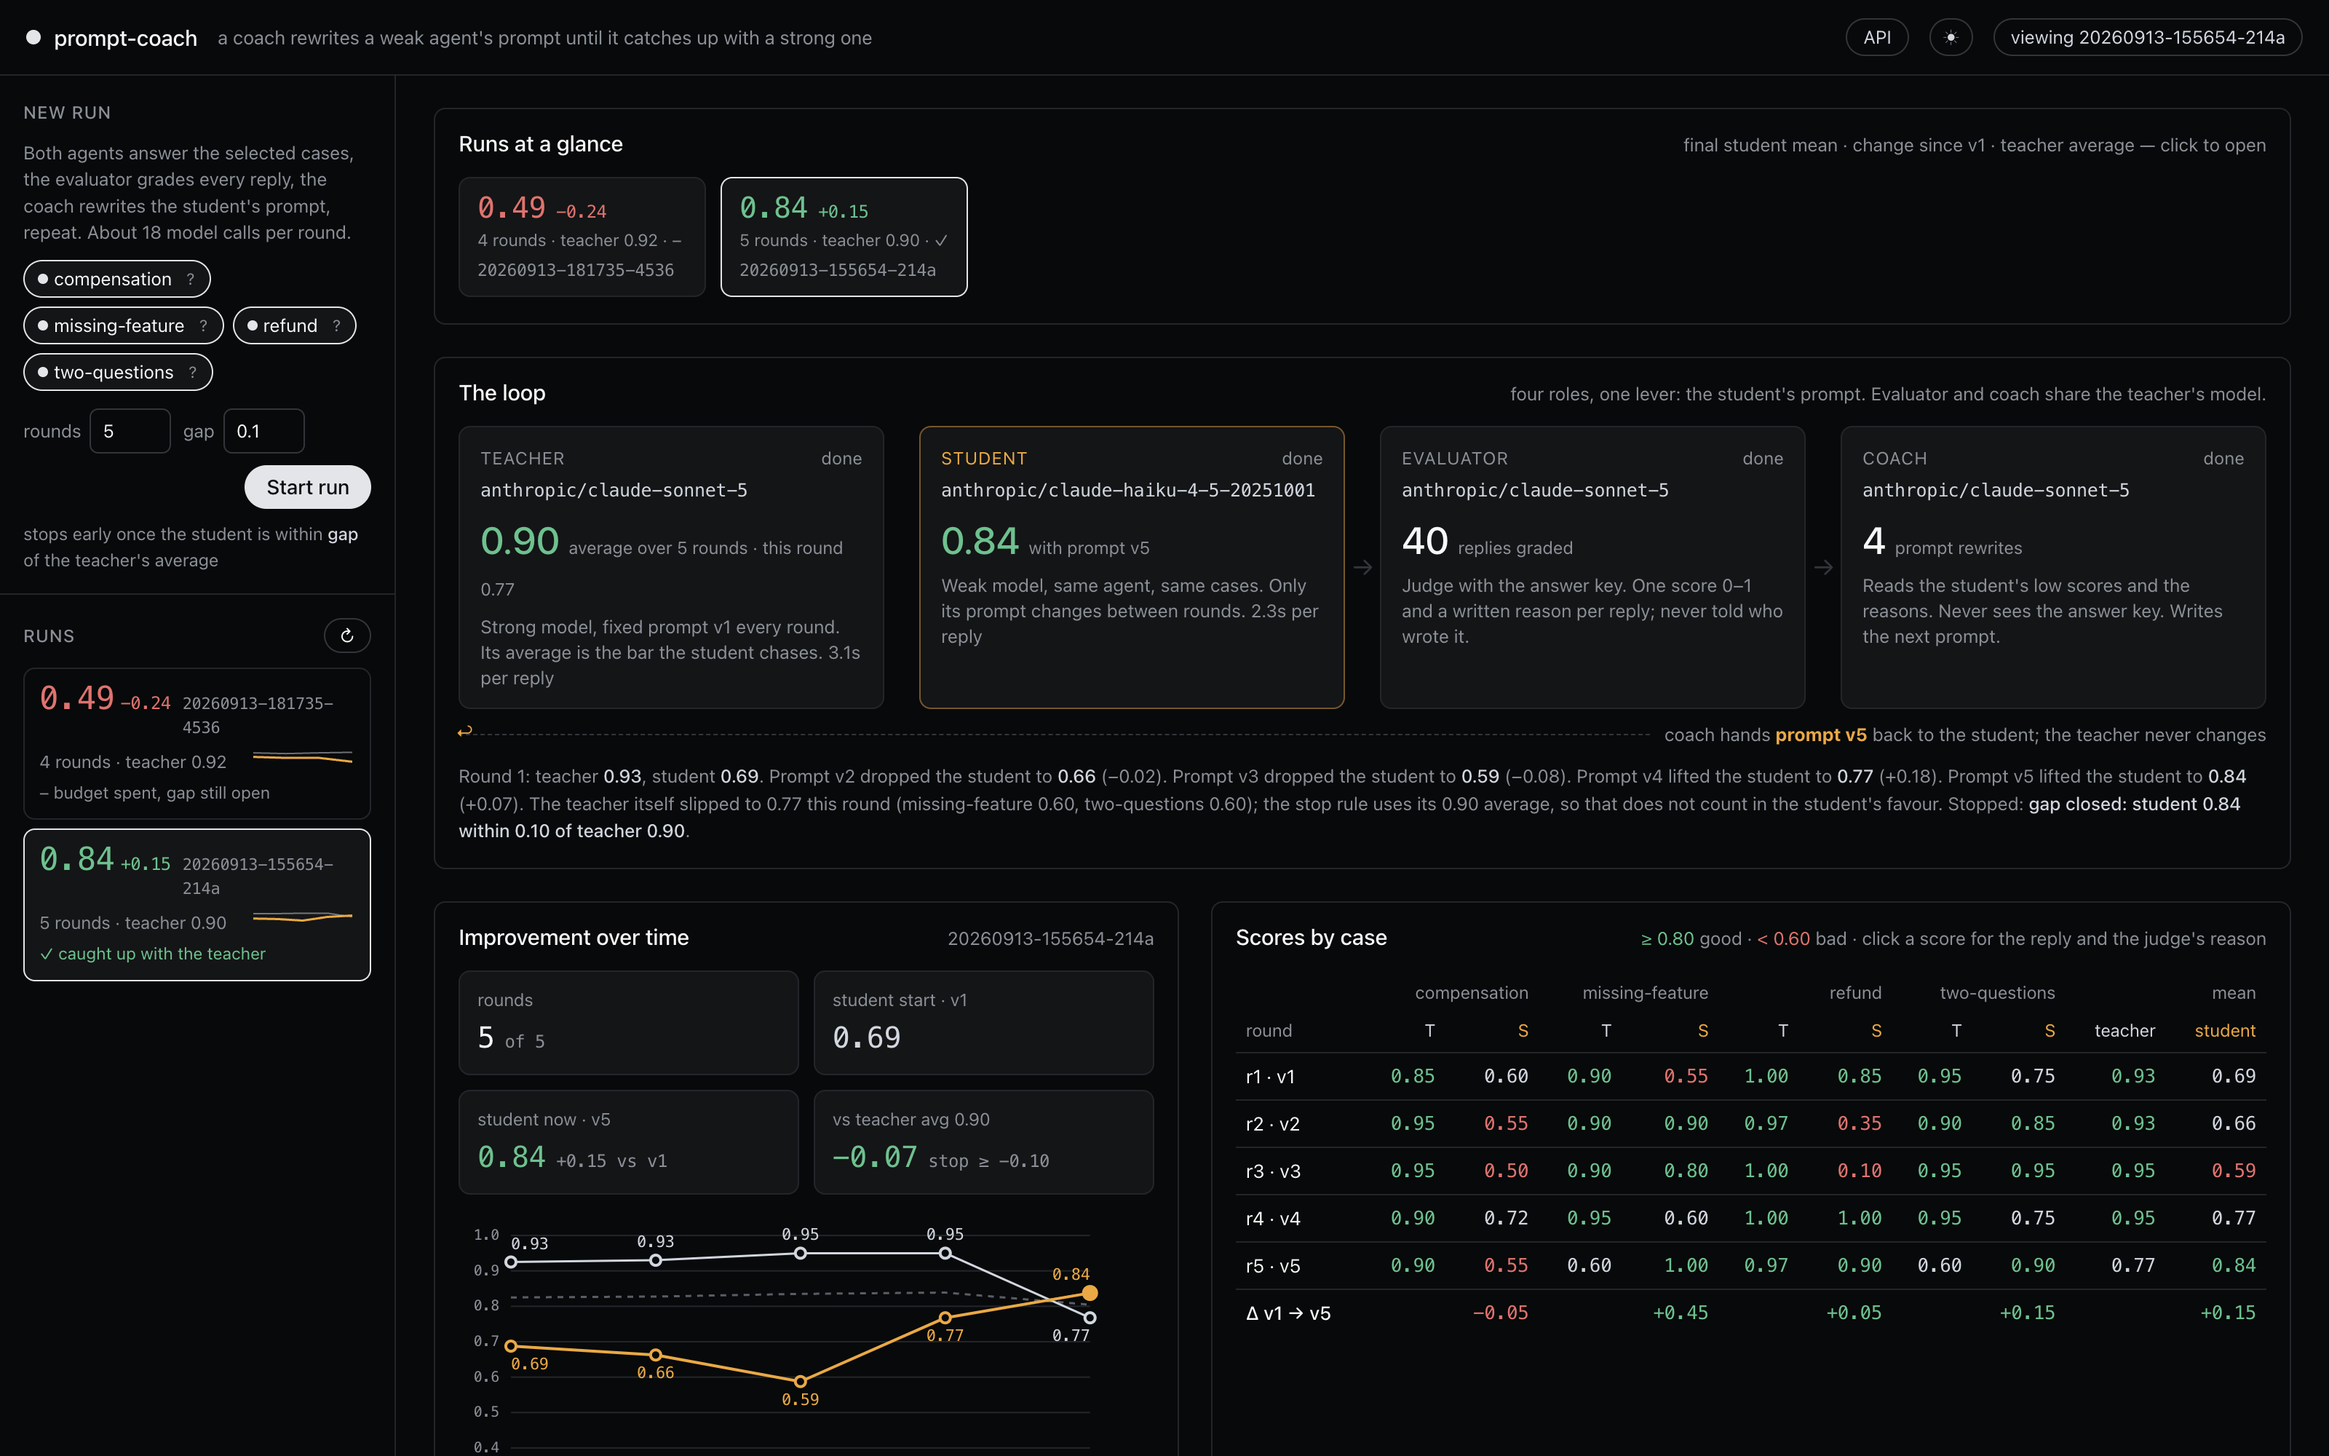
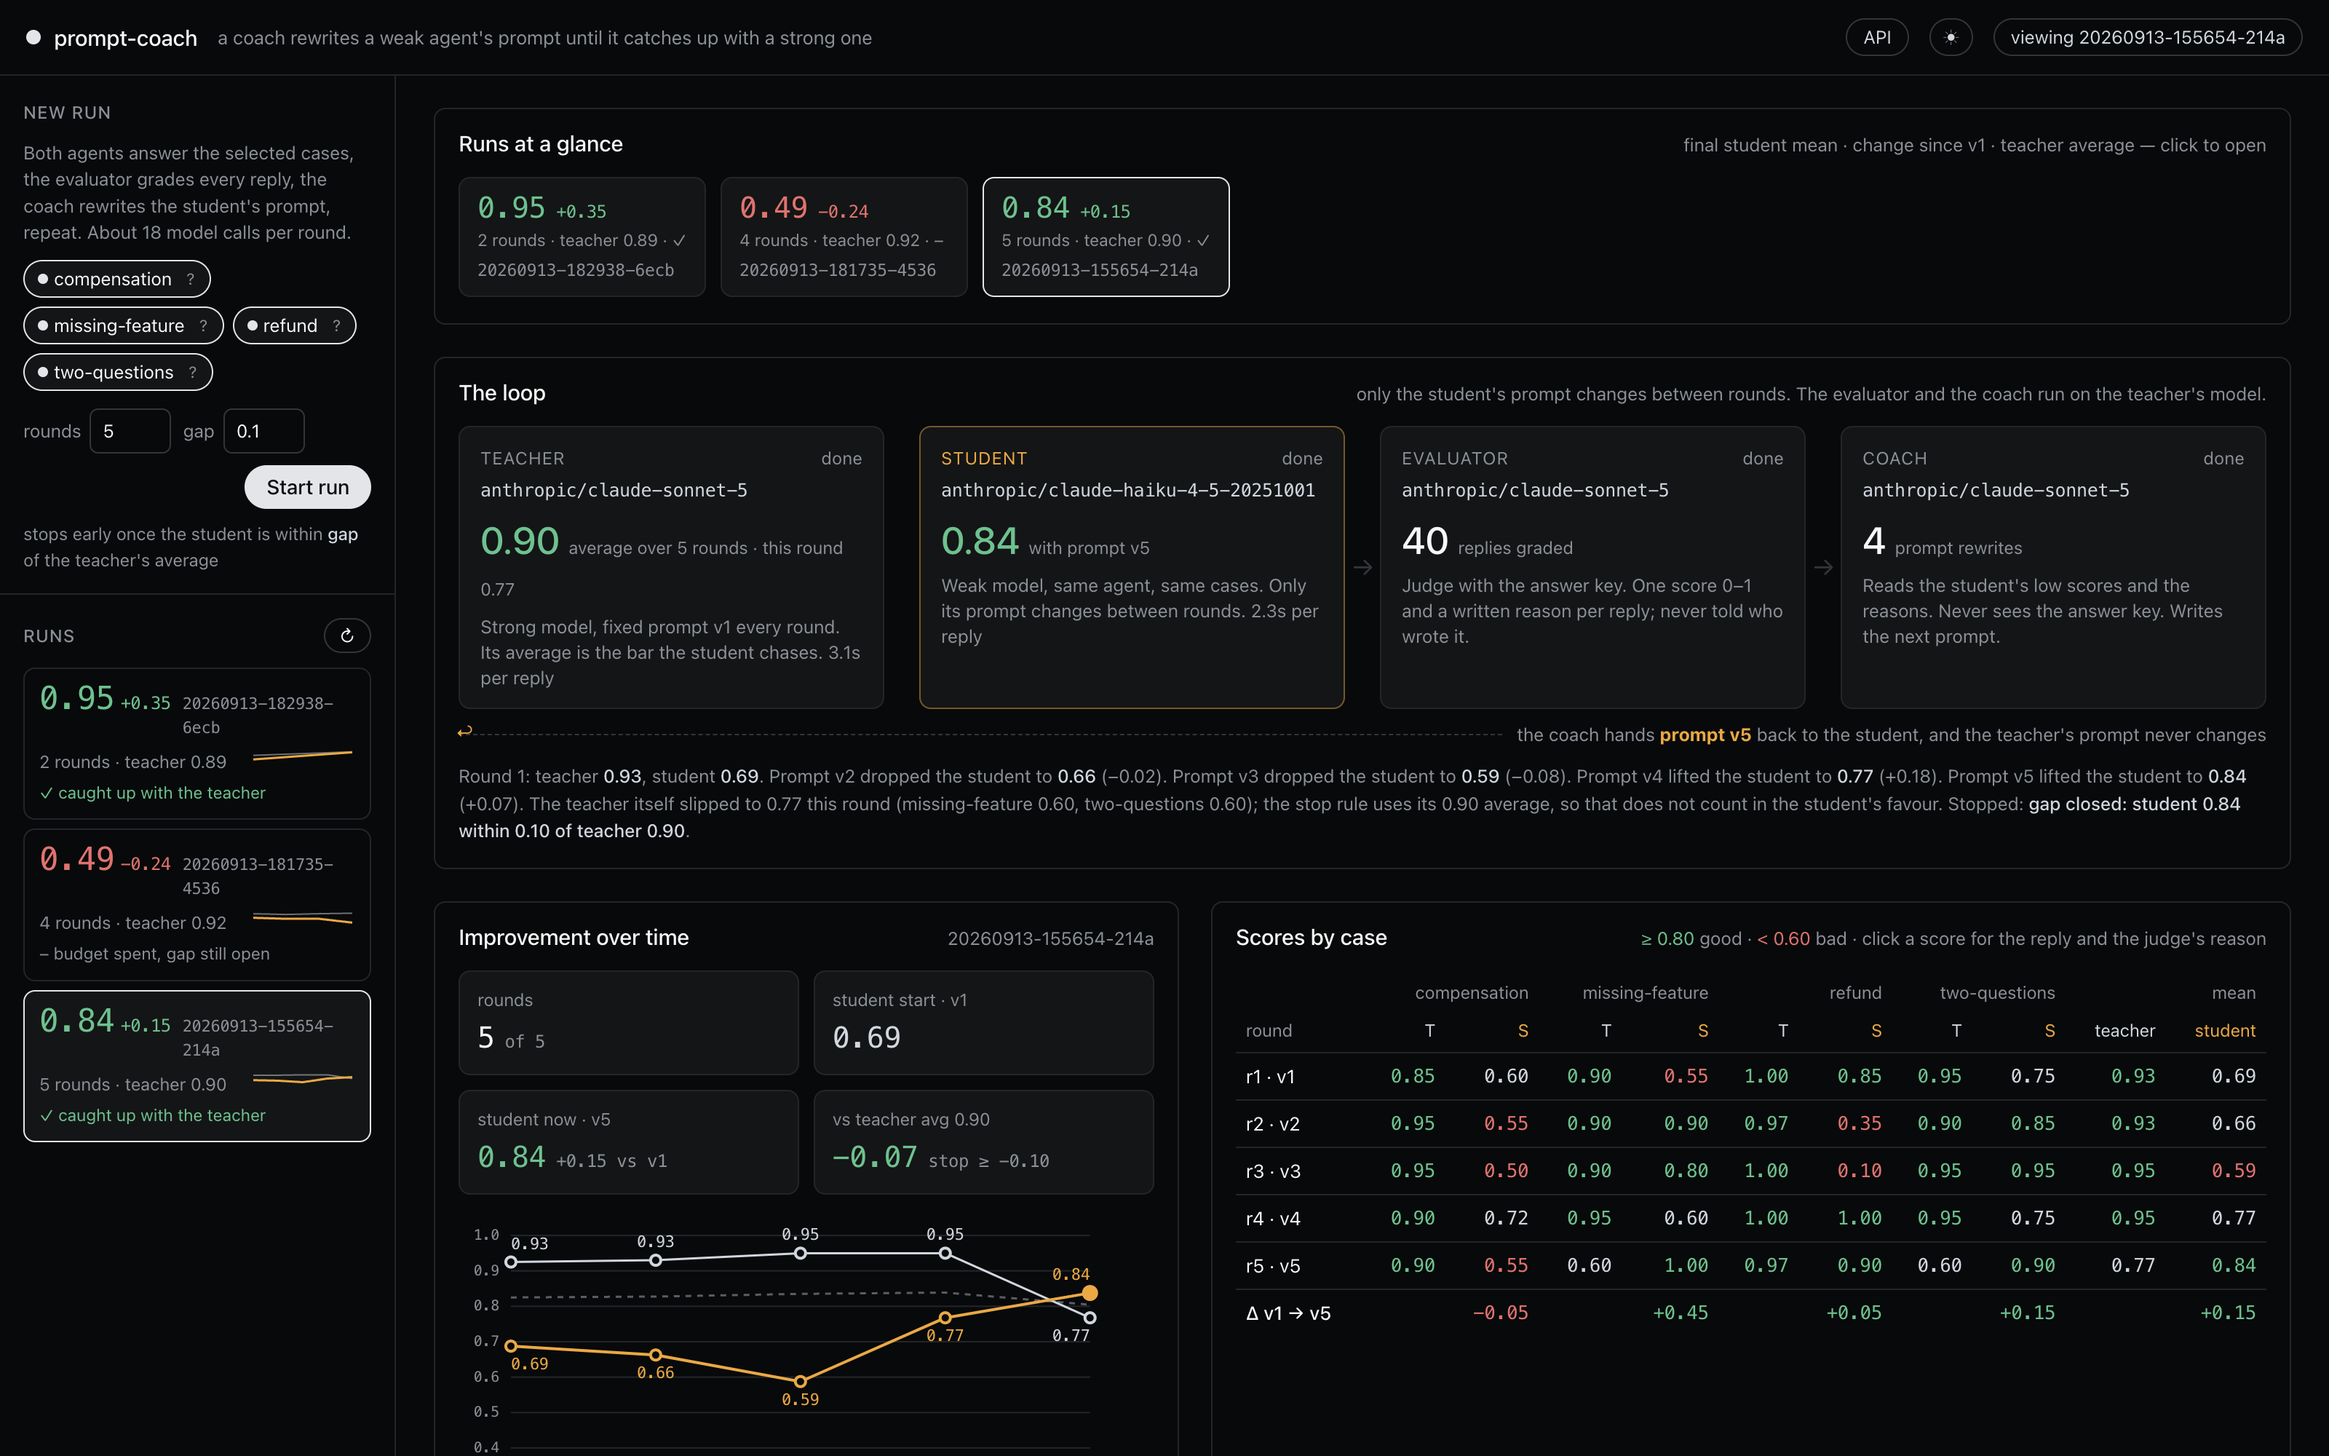
README: corrected run chronology from the run file, stop rule in the diagram, plainer wording; UI subtitle; hero screenshot recaptured

diff --git a/src/prompt_coach/web/static/index.html b/src/prompt_coach/web/static/index.html
@@ -260,7 +260,7 @@
       <div class="pb"><div class="runsrow" id="runsRow"></div></div>
     </section>
     <section class="panel">
-      <div class="ph"><h2>The loop</h2><span class="sub" id="loopSub">four roles, one lever: the student's prompt. Evaluator and coach share the teacher's model.</span></div>
+      <div class="ph"><h2>The loop</h2><span class="sub" id="loopSub">only the student's prompt changes between rounds. The evaluator and the coach run on the teacher's model.</span></div>
       <div class="pb">
         <div class="loop" id="loop"></div>
         <div class="storyline" id="story"></div>
@@ -584,7 +584,7 @@ function renderLoop(run) {
       <div class="model mono">${esc(m.coach || '')}</div>
       <div class="big">${Math.max(0, vs.length - 1)}<small>prompt rewrite${vs.length === 2 ? '' : 's'}</small></div>
       <div class="what">Reads the student's low scores and the reasons. Never sees the answer key. Writes the next prompt.</div></div>
-    <div class="loopback" style="grid-column:1/-1"><span class="line"></span><span>coach hands <b class="s">prompt v${vs.length ? vs[vs.length - 1].version : 2}</b> back to the student; the teacher never changes</span></div>`;
+    <div class="loopback" style="grid-column:1/-1"><span class="line"></span><span>the coach hands <b class="s">prompt v${vs.length ? vs[vs.length - 1].version : 2}</b> back to the student, and the teacher's prompt never changes</span></div>`;
   $('story').innerHTML = storyline(run, rounds, cur);
 }
 function storyline(run, rounds, cur) {

diff --git a/README.md b/README.md
@@ -2,8 +2,8 @@
 
 This is a small, runnable example of continual learning for an LLM agent. A cheap model learns to do
 a support job as well as an expensive one, and the only thing that changes between rounds is the
-cheap model's prompt. You can read the whole thing in an afternoon and run it for the price of a
-coffee.
+cheap model's prompt. The code fits in an afternoon of reading and a run costs a few dollars in
+model calls.
 
 ## What this is
 
@@ -20,17 +20,13 @@ without paying for a single model call.
 
 When people say an agent "learns in production", they usually do not mean fine-tuning. They mean a
 loop: the agent does its job, something grades the result, something changes the agent's
-instructions, and the agent runs again. That loop is described in every talk about AI agents, but
-it is hard to watch one end to end, because in a real system it is spread across thousands of runs
-and several teams.
+instructions, and the agent runs again. In a real system that loop is spread across thousands of
+runs and several teams, so nobody gets to watch one prompt change from beginning to end.
 
-This repo is that loop at the smallest size where the effect is still visible. Four tickets, two
-models, one prompt that changes. You see the prompt go from v1 to v2 to v3, and for every score you
-can read the reply and the reason it got that score, so when the student improves you know why, and
-when it gets worse you know why too.
-
-The hard parts are in here as well. The coach can make the student worse, the evaluator is noisy,
-and the teacher has bad rounds of its own. The run further down shows all three.
+Here the loop is small enough to watch. For every score you can read the reply and the reason it
+got that score, so when the student improves you know which edit did it, and when it gets worse you
+know that too. The hard parts are kept in: the coach can make the student worse, the evaluator is
+noisy, and the teacher has weak rounds of its own.
 
 ## How it works
 
@@ -41,21 +37,20 @@ flowchart LR
     P --> S[student<br/>cheap model]
     T[teacher<br/>expensive model · prompt v1, fixed] --> J
     S --> J[evaluator<br/>has the checklist · one score 0–1 + reason<br/>does not know who wrote the reply]
-    J --> D{student average ≥<br/>teacher average − gap?}
+    J --> D{at least 2 rounds done, and<br/>student average ≥ teacher average − gap?}
     D -- yes --> X([stop: caught up])
     D -- no, rounds left --> C[coach<br/>reads low scores + reasons<br/>never sees the checklist]
     D -- no, budget spent --> Y([stop: budget spent])
     C -- "prompt vN+1 + changelog" --> P
-    linkStyle 6 stroke:#f5a524,stroke-width:2px
+    linkStyle 7 stroke:#f5a524,stroke-width:2px
 ```
 
 The teacher is the expensive model running the task's original prompt. Its prompt never changes,
-because it is the reference; the bar the student has to reach is the teacher's average score over
-all rounds so far, so one unusually good or bad teacher round does not move the target.
+because it is the reference. The bar the student has to reach is the teacher's average over all
+rounds so far, so one unusually good or bad teacher round moves the target only a little.
 
-The student is the cheap model running the same agent on the same tickets. Between rounds the only
-thing that changes is its prompt, which means that when its score moves you can attribute the move
-to one specific edit.
+The student is the cheap model running the same agent on the same tickets. Between rounds only its
+prompt changes, so when its score moves there is one edit to look at.
 
 The evaluator is a model that has the answer key. Every ticket ships with a checklist of what a good
 reply must say, what it must not do, and which questions it has to answer. The evaluator reads a
@@ -117,45 +112,47 @@ at `/docs` while `serve` is running.
 ## One real run, explained
 
 This run used Claude Sonnet as the teacher and Claude Haiku as the student, on all four tickets,
-with a gap of 0.1 and a budget of five rounds.
+with a gap of 0.1 and a budget of five rounds. The prompt versions and their word counts come from
+the saved run file.
 
-| round | student prompt | teacher | student | what happened |
+| round | student prompt | teacher | student | what the coach had changed, and what happened |
 |---|---|---|---|---|
-| 1 | v1 (same as teacher) | 0.93 | 0.69 | The student got the policy decisions right but dropped required details and ran over the word limits. |
-| 2 | v2 | 0.93 | 0.66 | The coach added rules about checking eligibility dates. The student over-applied them. |
-| 3 | v3 | 0.95 | 0.59 | The refund ticket fell to 0.10: the student refused a refund the policy clearly allows. |
-| 4 | v4 | 0.95 | 0.77 | The coach saw two regressions in its history and replaced the date rule with "quote the policy's timing verbatim". |
-| 5 | v5 | 0.77 | 0.84 | The student caught up. The teacher had a weak round; the stop rule uses its 0.90 average. |
+| 1 | v1, 74 words, same as the teacher's | 0.93 | 0.69 | The student got the policy decisions right but dropped required details and ran over word limits. |
+| 2 | v2, 162 words | 0.93 | 0.66 | Rules for covering every request, giving exact figures, and refusing explicitly. The refund ticket fell to 0.35: the student misread the 7-day condition. |
+| 3 | v3, 218 words | 0.95 | 0.59 | "State the eligibility decision first and definitively." The student did, and refused a refund the policy allows. Refund at 0.10. |
+| 4 | v4, 220 words | 0.95 | 0.77 | An explicit check of which date each policy window counts from. Refund back to 1.00. |
+| 5 | v5, 245 words | 0.77 | 0.84 | The date check was replaced by "quote the policy's timing verbatim, do not derive new dates", because it still produced invented dates on other tickets. The student caught up. |
 
-In round one both models had the same prompt, so the difference between 0.93 and 0.69 is the
-difference between the models. The evaluator's recommendation to the coach after that round said the
-student "consistently identifies the right policy and mechanics but loses points through incomplete
-execution", which is a fair summary of what a cheap model does with a thin prompt.
+In round one both models had the same prompt and the same tickets, so most of the difference between
+0.93 and 0.69 is the difference between the models, with some noise on top. The evaluator's
+recommendation to the coach after that round said the student "consistently identifies the right
+policy and mechanics but loses points through incomplete execution", which is a fair description of
+what a cheap model does with a thin prompt.
 
-Rounds two and three are the reason this repo exists. The coach's new prompt looked sensible: it told
-the student to check eligibility dates before answering. Haiku followed that instruction too hard,
-told the customer she was "beyond the 7-day window" when she was not, and refused a refund the policy
-allows. The score for that ticket went from 0.85 to 0.35 to 0.10. If you had shipped v2 because it
-read better than v1, you would have made the agent worse and not known it, because nothing in the
-prompt text tells you that. The score does.
+Rounds two and three are the reason this repo exists. Each new prompt read like an improvement. v2
+asked for exact figures and explicit refusals; v3 asked the student to state the eligibility decision
+first and definitively. Haiku did exactly that, told the customer she was "beyond the 7-day window"
+when she was not, and refused a refund the policy allows. The refund ticket went from 0.85 to 0.35
+to 0.10 while the prompt text itself gave no hint that anything was wrong. The score did.
 
-Round four is where the coach earned its place. It could see that v2 and v3 both scored below v1,
-so instead of adding another rule it deleted the one that caused the damage and replaced it with an
-instruction to quote the policy's timing in the policy's own words rather than deriving new dates.
-The student recovered to 0.77, then 0.84. The prompt that finally worked is shorter than the two
-that failed.
+In round four the coach had two regressions in front of it, because it is shown how every earlier
+version scored. It added a check of which date each policy window is counted from, and the refund
+ticket went back to 1.00. In round five it replaced that check with a plainer rule, quoting the
+policy's timing in the policy's own words rather than working out new dates, because the check had
+started producing invented dates on other tickets. The student finished at 0.84.
 
-Round five also shows why the stop rule compares against the teacher's average and not against the
-current round. The teacher itself dropped to 0.77 that round, on two tickets it normally gets right.
-Measured against that one round the student would have "won" by luck; measured against the 0.90
-average it caught up on merit, and that is what the loop reports.
+Round five also shows why the stop rule compares with the teacher's average and not with the current
+round. The teacher itself dropped to 0.77 that round, on two tickets it normally gets right. Against
+that one round the student would have looked ahead by 0.07; against the 0.90 average the target was
+0.80, the student was at 0.84, and that is what the loop reports.
 
-Two details about the coach matter here. The first version of it could not see how earlier prompts
-had scored, and it behaved the way you would expect: it added rules every round, the prompt grew from
-352 to 486 to 553 words, and the student got worse every round. Giving the coach the score history
-of its own versions, plus a hard cap of 300 words on the prompt, is what made it converge. Not every
-run does converge. Another run with the same settings went 0.72, 0.68, 0.68, 0.49 and spent its
-budget without catching up, and the run cards in the web page show that as plainly as this one.
+One detail about the coach matters here. During development, the first version of it could not see
+how earlier prompts had scored, and it behaved the way you would expect: it added rules every round,
+the prompt grew from 352 to 486 to 553 words, and the student got worse every round. Showing the
+coach the score history of its own versions, and capping the prompt at 300 words, is what made it
+converge. It does not always converge. Another run with the same settings went 0.72, 0.68, 0.68,
+0.49 and spent its budget without catching up, and the run cards in the web page show that as
+plainly as this one.
 
 ## The four tickets
 
@@ -218,8 +215,8 @@ The coach optimises against these four tickets and nothing else, so a prompt tha
 may be fitting these tickets. The prompts it writes are general, with no customer names, dates or
 figures in them, but this repo cannot prove they generalise. Adding cases is the fix.
 
-Only the student's prompt changes. There are no tools, no retrieval and no fine-tuning, because the
-point is to see one lever move.
+Only the student's prompt changes. There are no tools, no retrieval and no fine-tuning, so that one
+change at a time is the only thing you are looking at.
 
 ## Under the hood
 
@@ -227,7 +224,7 @@ point is to see one lever move.
 tasks/support/     task.yaml and cases/*.yaml, the example task
 src/prompt_coach/
   roles/           agent.py, evaluator.py, coach.py
-  loop.py          one round: run both models, grade every reply, stop or call the coach
+  loop.py          runs rounds until the stop rule fires: both models answer, every reply is graded, then stop or call the coach
   runs.py          runs/<id>.json and replay
   cli.py           cases, run, test, replay, serve
   web/             a FastAPI backend and one static page; live updates over SSE; OpenAPI at /docs
@@ -235,13 +232,13 @@ src/prompt_coach/
 tests/             48 offline tests with a fake model, and one live test you opt into
 ```
 
-The agents run on Google ADK over LiteLLM. The evaluator and the coach are single model calls whose
-prompts live in `src/prompt_coach/prompts/`. The loop produces a stream of events, and the terminal
+The agents run on Google ADK over LiteLLM. The evaluator and the coach call LiteLLM directly, with
+the prompts in `src/prompt_coach/prompts/`. The loop produces a stream of events, and the terminal
 and the web page are two renderers of that same stream.
 
 ```bash
 uv run pytest                 # offline, about one second
-uv run pytest -m live         # one real call per role; needs ANTHROPIC_API_KEY
+uv run pytest -m live         # one student reply and one evaluator grade, for real; needs ANTHROPIC_API_KEY
 ```
 
 MIT licensed.
